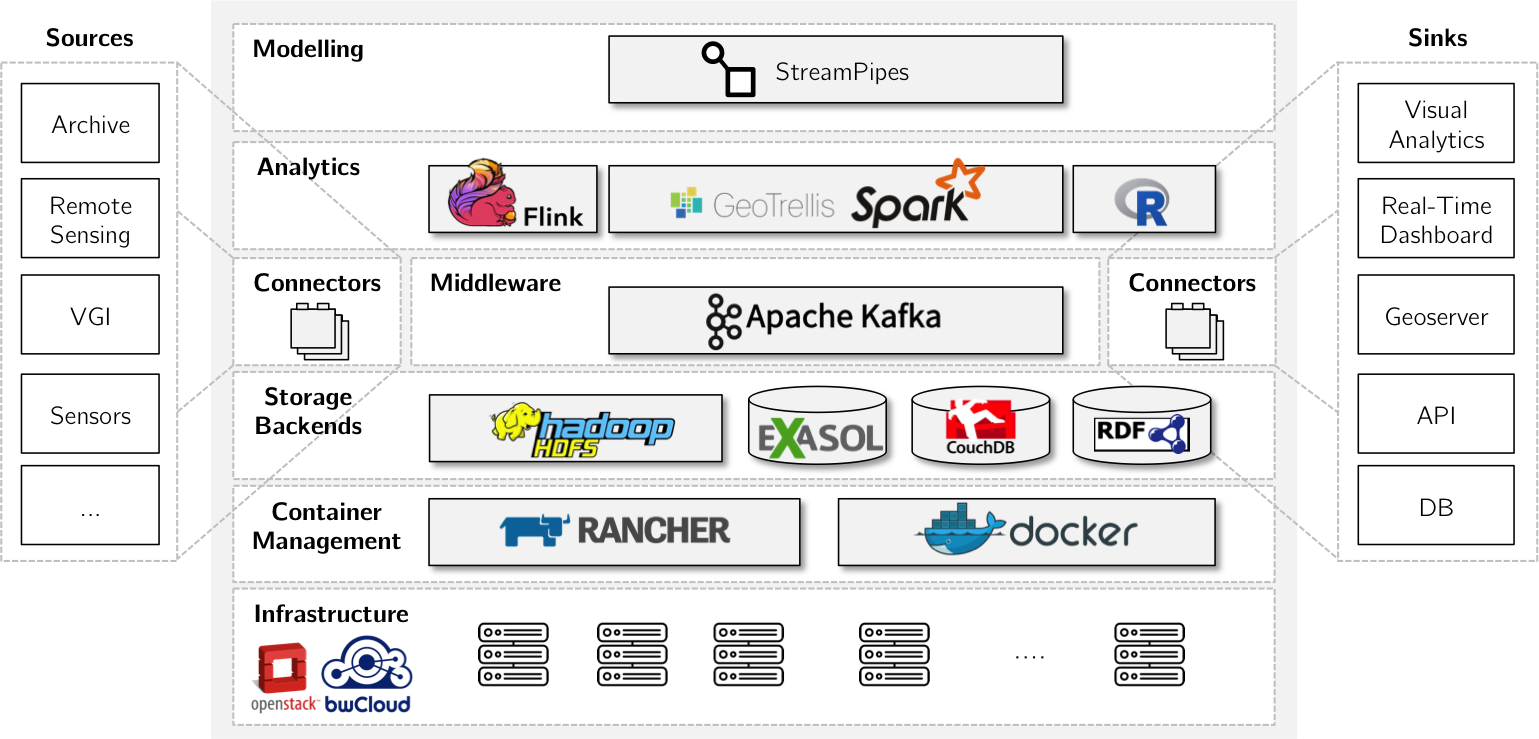
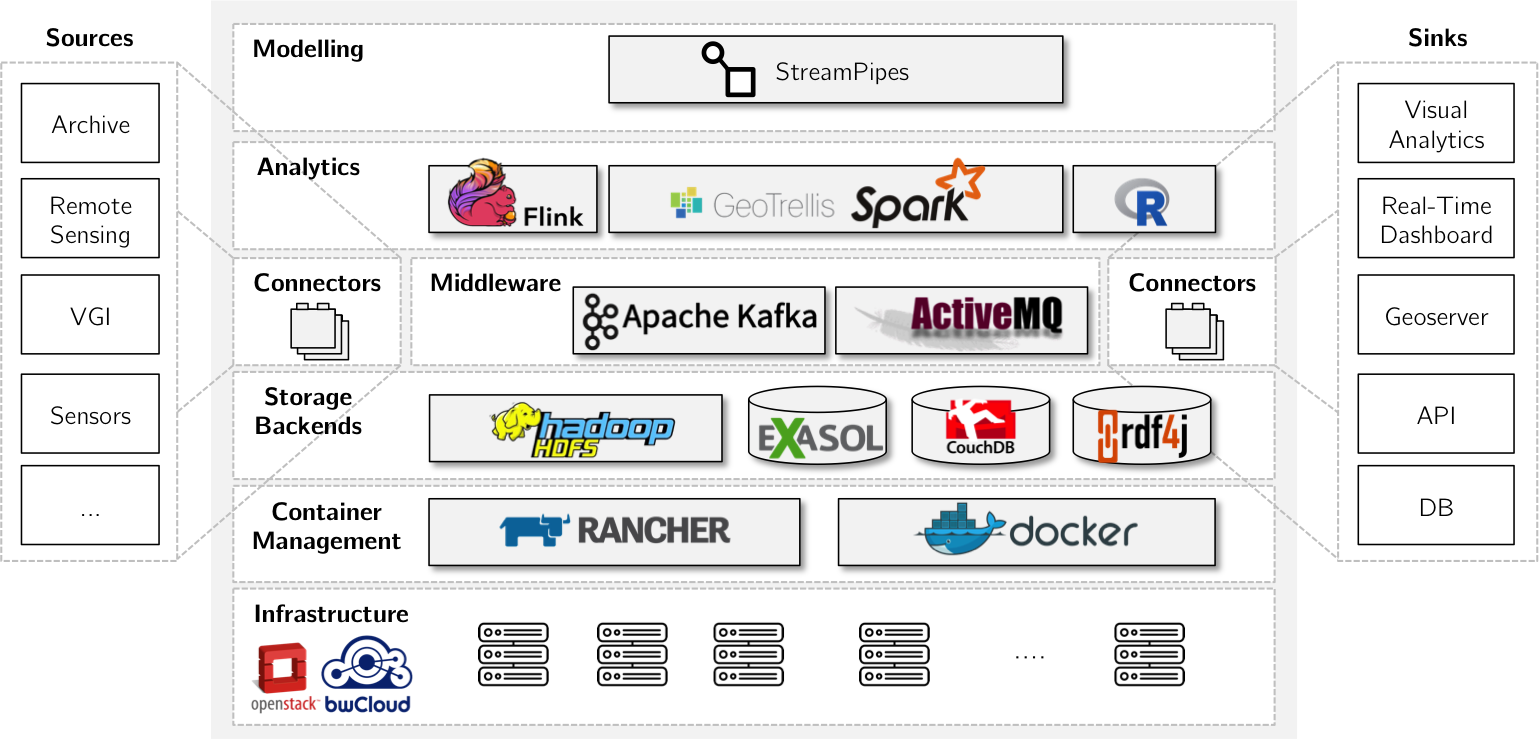
Architecture description

Changed region(s): [[0.3743, 0.3735, 0.7173, 0.498], [0.6862, 0.5602, 0.7797, 0.6225]]

diff --git a/docs/architecture/ArchOverview/index.md b/docs/architecture/ArchOverview/index.md
@@ -5,58 +5,65 @@
 
 ![BigGIS Architecture](biggis-architecture.png)
 
-The BigGIS architecture, as depicted in the picture above, consists of several layers that are briefly discussed in the
-following.
+The BigGIS architecture, as depicted in the picture above, consists of several layers that are 
+briefly discussed in the following.
 
 ## Modelling
 
-[StreamPipes](../StreamPipes)
-tbd.
+Pipelines in BigGIS are modelled leveraging [StreamPipes](../StreamPipes). StreamPipes allows to 
+transform and analyse sensor landscape and other data streams with less programming effort. We 
+extend StreamPipes to support geo-spatial data analytics, e.g. raster data.
 
 ## Analytics
 
-Analytics and processing
-
-- [Apache Flink](https://flink.apache.org/)
-- [Apache Spark](https://spark.apache.org/) featuring [GeoTrellis](https://geotrellis.io/)
-- Other Languages and Notebooks: R, Java, ...
-tbd.
+To process and analyze the geo-spatial data, BigGIS relies on multiple big data analytics 
+frameworks. While [Apache Flink](https://flink.apache.org/) is mainly used for sensor data,
+some application use cases need to process geo-spatial raster or vector data in batches as well. 
+Thus, we integrate [Apache Spark](https://spark.apache.org/) featuring [GeoTrellis](https://geotrellis.io/) into our architectural design in order to process geographic data. GeoTrellis provides a 
+number of operations to manipulate raster data including map algebra operations. In addition, we 
+provide other data science notebooks (RStudio, Jupyter) to exploratively analyze the data.
 
 ## Middleware & Connectors
 
-Data and control flow, connectors are nodes in StreamPipes that enable the user to load various data sources in Apache
-Kafka or to tbd.
+[Apache Kafka](https://kafka.apache.org/) is used as the primary message broker. It handles the 
+communication between the data processing elements, i.e. nodes, within the analytics pipelines. 
+Besides, [ActiveMQ](http://activemq.apache.org/) is another message broker which can be used in 
+addition to Kafka. Currently, the main purpose is to provide an endpoint for the websocket 
+connections required by the real-time dashboard of the StreamPipes UI.
 
 ## Storage Backends
 
 Internally, BigGIS uses a variety of different storage backends for designated purposes.
 
-- [HDFS](http://hadoop.apache.org/) for GeoTrellis catalog
-- [Exasol](https://www.exasol.com/de/) for xx
-- [CouchDB](http://couchdb.apache.org/) for StreamPipes user and pipeline configurations
-- [Sesame](http://rdf4j.org/) for semantic framework of StreamPipes
-tbd.
+- [HDFS](http://hadoop.apache.org/) for GeoTrellis catalog and Spark jobs.
+- [Exasol](https://www.exasol.com/de/) for fast access of stored data.
+- [CouchDB](http://couchdb.apache.org/) for pipelines, users and visualizations created in the 
+dashboard.
+- [RDF4J](http://rdf4j.org/) (formerly Sesame) as a semantic backend of StreamPipes.
 
 ## Container Management
 
-Running these containers in a distributed manner requires a wide variety of technologies, that must be integrated and
-managed throughout their lifecycle. To easily deploy our containers, our infrastructure is designed to run on
-[Rancher](http://rancher.com/) as our container management platform. Rancher enables organizations to run and manage
-Docker and Kubernetes in production, providing four major components, that are:
+Running these containers in a distributed manner requires a wide variety of technologies, that 
+must be integrated and
+managed throughout their lifecycle. To easily deploy our containers, our infrastructure is 
+designed to run on
+[Rancher](http://rancher.com/) as our container management platform. Rancher enables 
+organizations to run and manage Docker and Kubernetes in production, providing four major 
+components, that are:
 
   1. Infrastructure Orchestration
   2. Container Orchestration and Scheduling
   3. Application Catalog
   4. Authentication
 
-That way, it is fairly easy to set up a distributed Rancher cluster in a couple of minutes (see the official
-[documentation](http://rancher.com/docs/rancher/v1.6/en/) for more information).
+That way, it is fairly easy to set up a distributed Rancher cluster in a couple of minutes (see 
+the official [documentation](http://rancher.com/docs/rancher/v1.6/en/) for more information).
 
 ## Infrastructure
 
-BigGIS infrastructure leverages [bwCloud](https://www.bw-cloud.org/) Infrastructure-as-a-Service (IaaS) offer powered by
-Openstack. See the section [bwCloud](../Platform_bwCloud/index.md) for additional information about the infrastructure
-setup.
+BigGIS infrastructure leverages [bwCloud](https://www.bw-cloud.org/) Infrastructure-as-a-Service 
+(IaaS) offer powered by Openstack. See the section [bwCloud](../Platform_bwCloud/index.md) for 
+additional information about the infrastructure setup.
 
 
 
